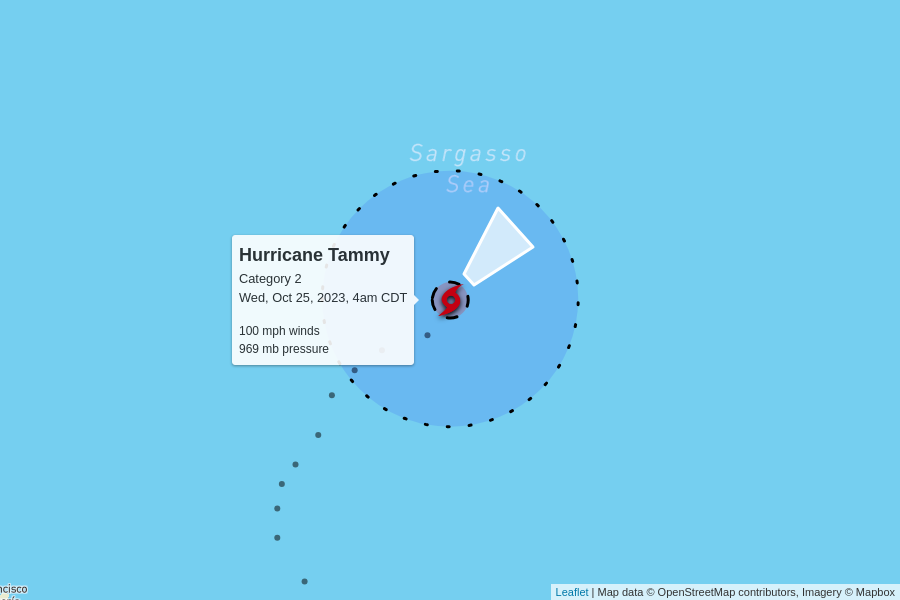
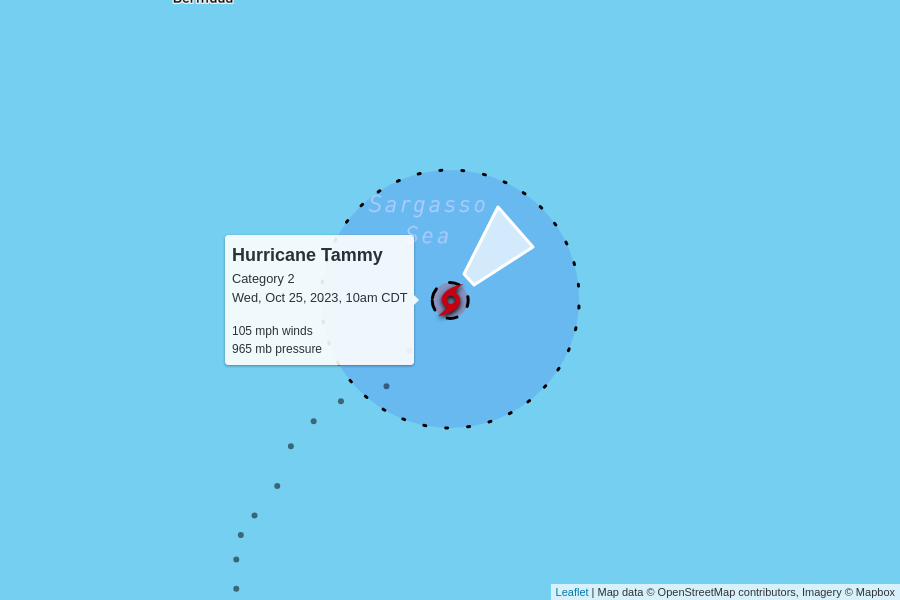
automatic update

diff --git a/docs/index.html b/docs/index.html
@@ -102,7 +102,7 @@
         <td colspan="6" class="storm category-2" >
           <h2>
             Hurricane Tammy - Category 2
-            <p class="updated">last updated <span data-time>2023-10-25T09:00:00.000Z</span></p>
+            <p class="updated">last updated <span data-time>2023-10-25T15:00:00.000Z</span></p>
           </h2>
         </td>
       </tr>
@@ -117,10 +117,10 @@
       </tr>
       <tr>
         <td class="spacer"></td>
-        <td>100 mph<br>+15 mph since last update</td>
-        <td>969 mb<br>-7 mb since last update</td>
+        <td>105 mph<br>+5 mph since last update</td>
+        <td>965 mb<br>-4 mb since last update</td>
         <td>
-          10 mph to the northeast
+          13 mph to the northeast
           <br/>
           <span style="display: inline-block; font-size: 1.5em; transform: rotate(45deg);">↑</span>
         </td>
